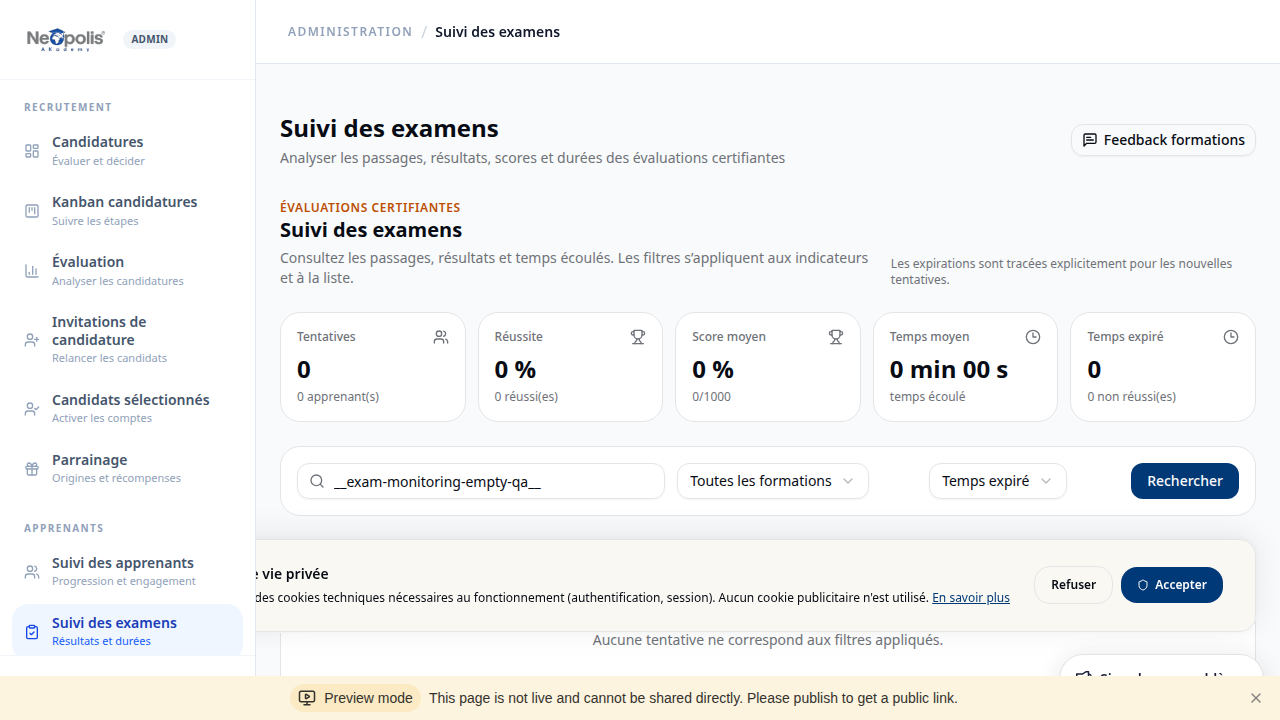
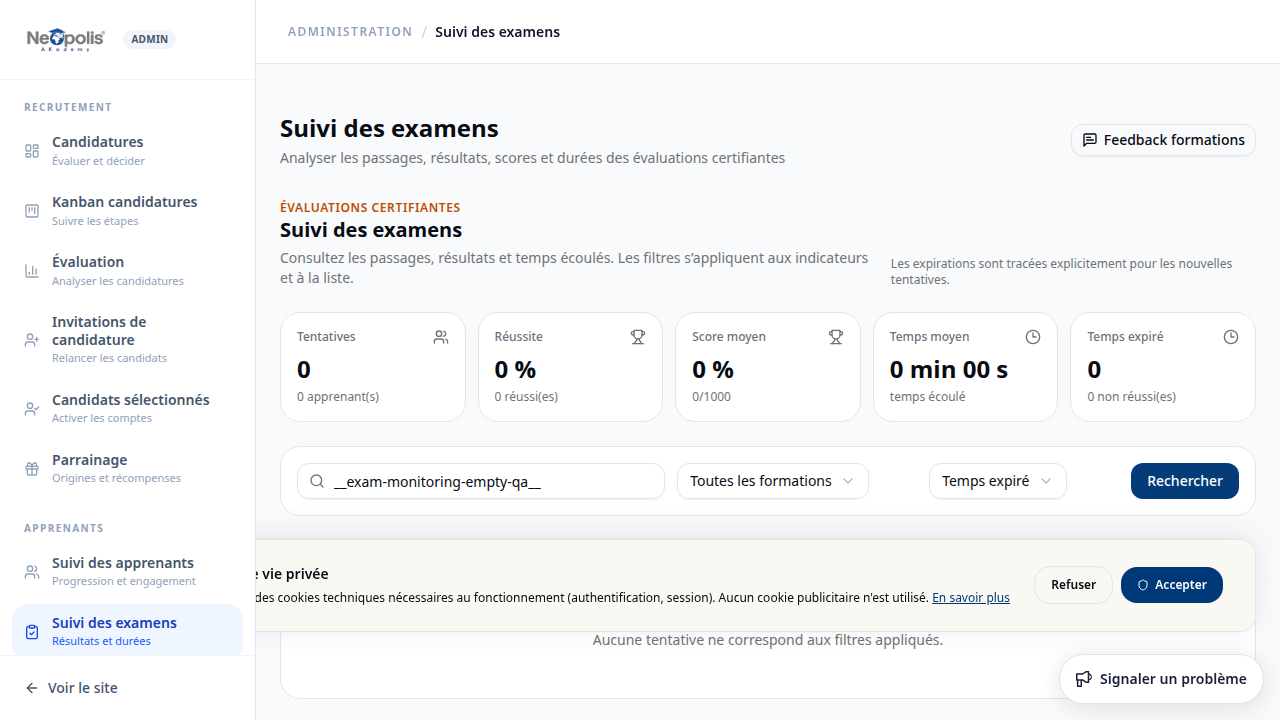
Checkpoint: Preuves finales du suivi administratif des examens : QA sur le domaine public pour les indicateurs, table, recherche, filtre Temps expiré, pagination suivante/précédente, état vide, action vers la fiche apprenant, navigation active et persistence de l’expiration. Documentation et capture

Changed region(s): [[0.0, 0.9167, 1.0, 1.0]]

diff --git a/todo.md b/todo.md
@@ -36,7 +36,7 @@
 - [x] Vérifier et corriger la persistence de `timedOut` lors de la soumission afin que les expirations récentes puissent être distinguées dans le suivi administratif — `timeLimitMinutes` et `timedOut` persistés par le serveur, migration `0039` appliquée et filtre « Temps expiré » validé par QA
 - [x] Ajouter une QA explicite de pagination du suivi des examens avec passage page suivante/précédente sur des données de contrôle, puis archiver la preuve — page 2 et retour page 1 contrôlés dans la sonde navigateur
 - [x] Ajouter une QA ou un test explicite d’état vide en appliquant des filtres sans résultat et en vérifiant le message affiché — recherche impossible contrôlée et message « Aucune tentative ne correspond aux filtres appliqués » affiché
-- [ ] Publier le suivi des examens puis rejouer la QA sur le domaine public avec les filtres, les indicateurs, la navigation et la persistence d’expiration
+- [x] Publier le suivi des examens puis rejouer la QA sur le domaine public avec les filtres, les indicateurs, la navigation et la persistence d’expiration — version `7b461517` contrôlée sur `akademy.neodev.click` : navigation, statistiques, table, action profil, filtres, pagination, état vide et tentative expirée persistée tous validés ; configuration QA supprimée
 
 ## Audit comparatif avancé — DataCamp et Neopolis
 - [x] Auditer les formations certifiantes, les examens blancs, les invitations de fin de cours et les métadonnées de durée/questions réellement disponibles — 4 formations certifiantes configurées, chacune avec code examen, nombre de questions, durée, seuil et domaines issus de `trainingIndex.examConfig`
